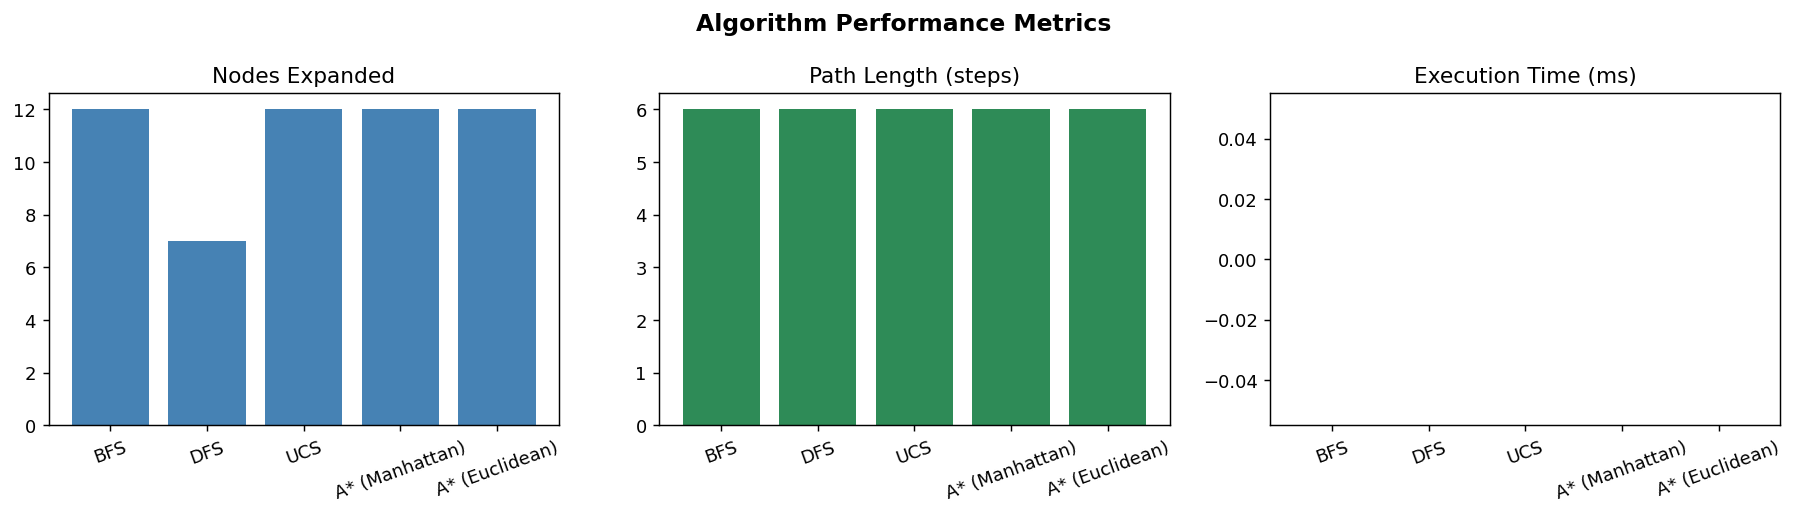
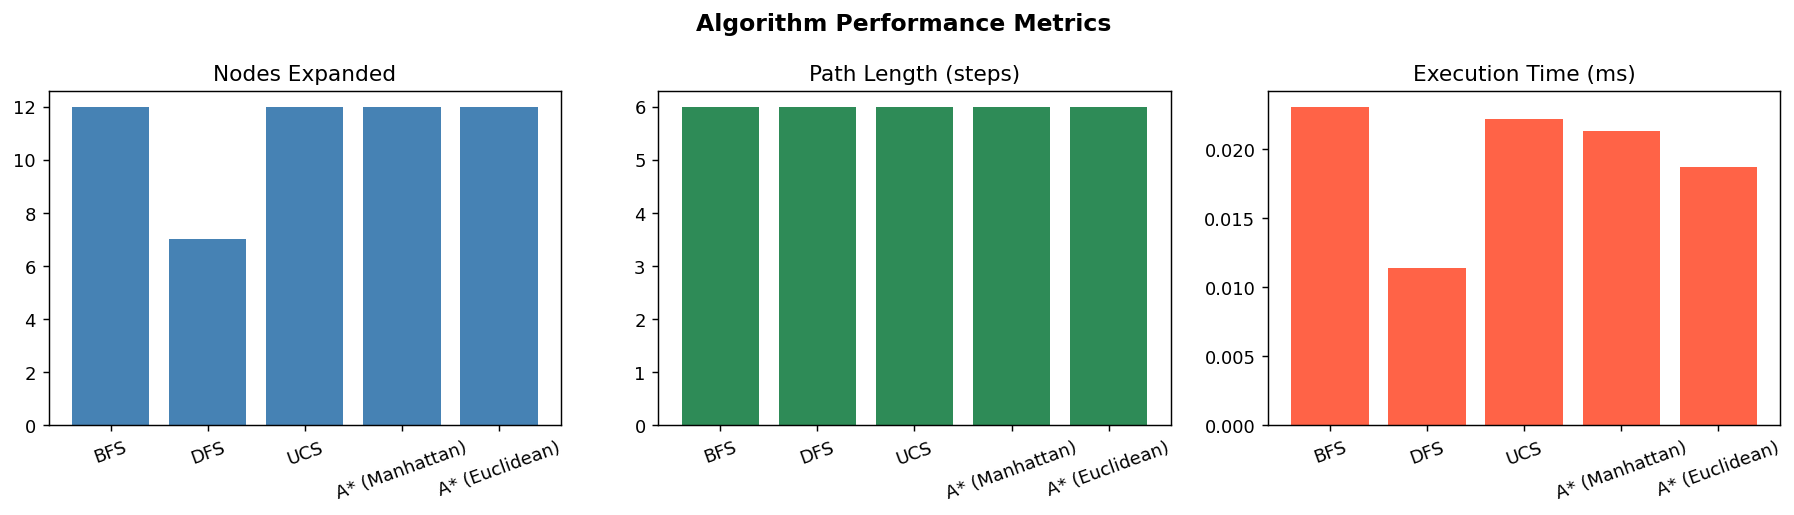
added 20 * 20 maze

diff --git a/algorithms/bfs.py b/algorithms/bfs.py
@@ -34,13 +34,14 @@ def bfs(env: MazeEnv) -> SearchResult:
     nodes_expanded  = 0
     nodes_generated = 1  # start node
 
+    result = None
     with Timer() as t:
         while queue:
             state, path, actions = queue.popleft()
             nodes_expanded += 1
 
             if env.is_goal(state):
-                return SearchResult(
+                result = SearchResult(
                     algorithm_name  = "BFS",
                     path_found      = True,
                     path            = path,
@@ -49,8 +50,9 @@ def bfs(env: MazeEnv) -> SearchResult:
                     path_cost       = float(len(path) - 1),
                     nodes_expanded  = nodes_expanded,
                     nodes_generated = nodes_generated,
-                    execution_time_ms = t.elapsed,
+                    execution_time_ms = 0.0,
                 )
+                break
 
             for next_state, action, cost in env.get_successors(state):
                 if next_state not in visited:
@@ -58,11 +60,15 @@ def bfs(env: MazeEnv) -> SearchResult:
                     nodes_generated += 1
                     queue.append((next_state, path + [next_state], actions + [action]))
 
-    # No path found
-    return SearchResult(
-        algorithm_name  = "BFS",
-        path_found      = False,
-        nodes_expanded  = nodes_expanded,
-        nodes_generated = nodes_generated,
-        execution_time_ms = t.elapsed,
-    )
+        # No path found
+        if result is None:
+            result = SearchResult(
+                algorithm_name  = "BFS",
+                path_found      = False,
+                nodes_expanded  = nodes_expanded,
+                nodes_generated = nodes_generated,
+                execution_time_ms = 0.0,
+            )
+
+    result.execution_time_ms = t.elapsed
+    return result

diff --git a/algorithms/ucs.py b/algorithms/ucs.py
@@ -33,6 +33,7 @@ def ucs(env: MazeEnv) -> SearchResult:
     nodes_expanded  = 0
     nodes_generated = 1
 
+    result = None
     with Timer() as t:
         while heap:
             g, _, state, path, actions = heapq.heappop(heap)
@@ -43,7 +44,7 @@ def ucs(env: MazeEnv) -> SearchResult:
                 continue
 
             if env.is_goal(state):
-                return SearchResult(
+                result = SearchResult(
                     algorithm_name  = "UCS",
                     path_found      = True,
                     path            = path,
@@ -52,8 +53,9 @@ def ucs(env: MazeEnv) -> SearchResult:
                     path_cost       = g,
                     nodes_expanded  = nodes_expanded,
                     nodes_generated = nodes_generated,
-                    execution_time_ms = t.elapsed,
+                    execution_time_ms = 0.0,
                 )
+                break
 
             for next_state, action, step_cost in env.get_successors(state):
                 new_g = g + step_cost
@@ -64,10 +66,14 @@ def ucs(env: MazeEnv) -> SearchResult:
                     heapq.heappush(heap, (new_g, counter, next_state,
                                           path + [next_state], actions + [action]))
 
-    return SearchResult(
-        algorithm_name  = "UCS",
-        path_found      = False,
-        nodes_expanded  = nodes_expanded,
-        nodes_generated = nodes_generated,
-        execution_time_ms = t.elapsed,
-    )
+        if result is None:
+            result = SearchResult(
+                algorithm_name  = "UCS",
+                path_found      = False,
+                nodes_expanded  = nodes_expanded,
+                nodes_generated = nodes_generated,
+                execution_time_ms = 0.0,
+            )
+
+    result.execution_time_ms = t.elapsed
+    return result

diff --git a/algorithms/dfs.py b/algorithms/dfs.py
@@ -32,13 +32,14 @@ def dfs(env: MazeEnv) -> SearchResult:
     nodes_expanded  = 0
     nodes_generated = 1
 
+    result = None
     with Timer() as t:
         while stack:
             state, path, actions = stack.pop()   # LIFO
             nodes_expanded += 1
 
             if env.is_goal(state):
-                return SearchResult(
+                result = SearchResult(
                     algorithm_name  = "DFS",
                     path_found      = True,
                     path            = path,
@@ -47,8 +48,9 @@ def dfs(env: MazeEnv) -> SearchResult:
                     path_cost       = float(len(path) - 1),
                     nodes_expanded  = nodes_expanded,
                     nodes_generated = nodes_generated,
-                    execution_time_ms = t.elapsed,
+                    execution_time_ms = 0.0,
                 )
+                break
 
             # Push successors in reverse order so left-most is explored first
             for next_state, action, cost in reversed(env.get_successors(state)):
@@ -57,10 +59,14 @@ def dfs(env: MazeEnv) -> SearchResult:
                     nodes_generated += 1
                     stack.append((next_state, path + [next_state], actions + [action]))
 
-    return SearchResult(
-        algorithm_name  = "DFS",
-        path_found      = False,
-        nodes_expanded  = nodes_expanded,
-        nodes_generated = nodes_generated,
-        execution_time_ms = t.elapsed,
-    )
+        if result is None:
+            result = SearchResult(
+                algorithm_name  = "DFS",
+                path_found      = False,
+                nodes_expanded  = nodes_expanded,
+                nodes_generated = nodes_generated,
+                execution_time_ms = 0.0,
+            )
+
+    result.execution_time_ms = t.elapsed
+    return result

diff --git a/algorithms/astar.py b/algorithms/astar.py
@@ -46,6 +46,7 @@ def astar(
     nodes_expanded  = 0
     nodes_generated = 1
 
+    result = None
     with Timer() as t:
         while heap:
             f, _, state, g, path, actions = heapq.heappop(heap)
@@ -56,7 +57,7 @@ def astar(
                 continue
 
             if env.is_goal(state):
-                return SearchResult(
+                result = SearchResult(
                     algorithm_name  = f"A* ({heuristic_name})",
                     path_found      = True,
                     path            = path,
@@ -65,8 +66,9 @@ def astar(
                     path_cost       = g,
                     nodes_expanded  = nodes_expanded,
                     nodes_generated = nodes_generated,
-                    execution_time_ms = t.elapsed,
+                    execution_time_ms = 0.0,
                 )
+                break
 
             for next_state, action, step_cost in env.get_successors(state):
                 new_g = g + step_cost
@@ -79,10 +81,14 @@ def astar(
                     heapq.heappush(heap, (f_new, counter, next_state, new_g,
                                           path + [next_state], actions + [action]))
 
-    return SearchResult(
-        algorithm_name  = f"A* ({heuristic_name})",
-        path_found      = False,
-        nodes_expanded  = nodes_expanded,
-        nodes_generated = nodes_generated,
-        execution_time_ms = t.elapsed,
-    )
+        if result is None:
+            result = SearchResult(
+                algorithm_name  = f"A* ({heuristic_name})",
+                path_found      = False,
+                nodes_expanded  = nodes_expanded,
+                nodes_generated = nodes_generated,
+                execution_time_ms = 0.0,
+            )
+
+    result.execution_time_ms = t.elapsed
+    return result

diff --git a/main.py b/main.py
@@ -1,6 +1,5 @@
 """
 main.py — Entry point for the Maze-Solving Intelligent Agent project.
-----------------------------------------------------------------------
 Runs BFS, DFS, UCS, and A* (Manhattan + Euclidean) on two maze sizes,
 prints results tables, shows ASCII paths, and saves PNG charts.
 
@@ -21,9 +20,7 @@ from utils.evaluator import SearchResult, print_results_table
 from utils.visualizer import print_maze, save_maze_image, save_metrics_chart
 
 
-# ---------------------------------------------------------------------------
 # Maze definitions
-# ---------------------------------------------------------------------------
 
 MAPS = {
     "4x4 Standard": {
@@ -43,6 +40,31 @@ MAPS = {
             "FHFFFF",
             "FFFHFF",
             "FFFFFG",
+        ],
+    },
+    "20x20 Standard": {
+        "map_name": None,
+        "custom_map": [
+            "SFFHFFFHFFFHFFFHFFFF",
+            "FHFFFHFFFHFFFHFFFHFF",
+            "FFFHFFFHFFFHFFFHFFFH",
+            "FHFFFHFFFHFFFHFFFHFF",
+            "FFFHFFFHFFFHFFFHFFFH",
+            "FHFFFHFFFHFFFHFFFHFF",
+            "FFFHFFFHFFFHFFFHFFFH",
+            "FHFFFHFFFHFFFHFFFHFF",
+            "FFFHFFFHFFFHFFFHFFFH",
+            "FHFFFHFFFHFFFHFFFHFF",
+            "FFFHFFFHFFFHFFFHFFFH",
+            "FHFFFHFFFHFFFHFFFHFF",
+            "FFFHFFFHFFFHFFFHFFFH",
+            "FHFFFHFFFHFFFHFFFHFF",
+            "FFFHFFFHFFFHFFFHFFFH",
+            "FHFFFHFFFHFFFHFFFHFF",
+            "FFFHFFFHFFFHFFFHFFFH",
+            "FHFFFHFFFHFFFHFFFHFF",
+            "FFFHFFFHFFFHFFFHFFFH",
+            "FHFFFHFFFHFFFHFFFHFG",
         ],
     },
 }
